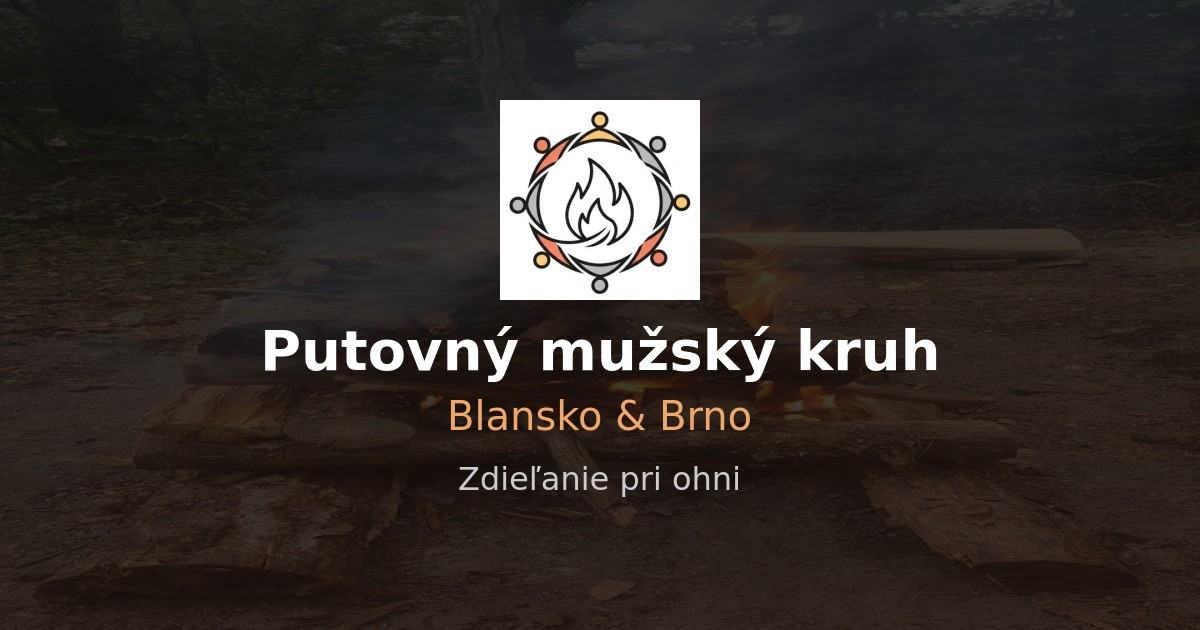
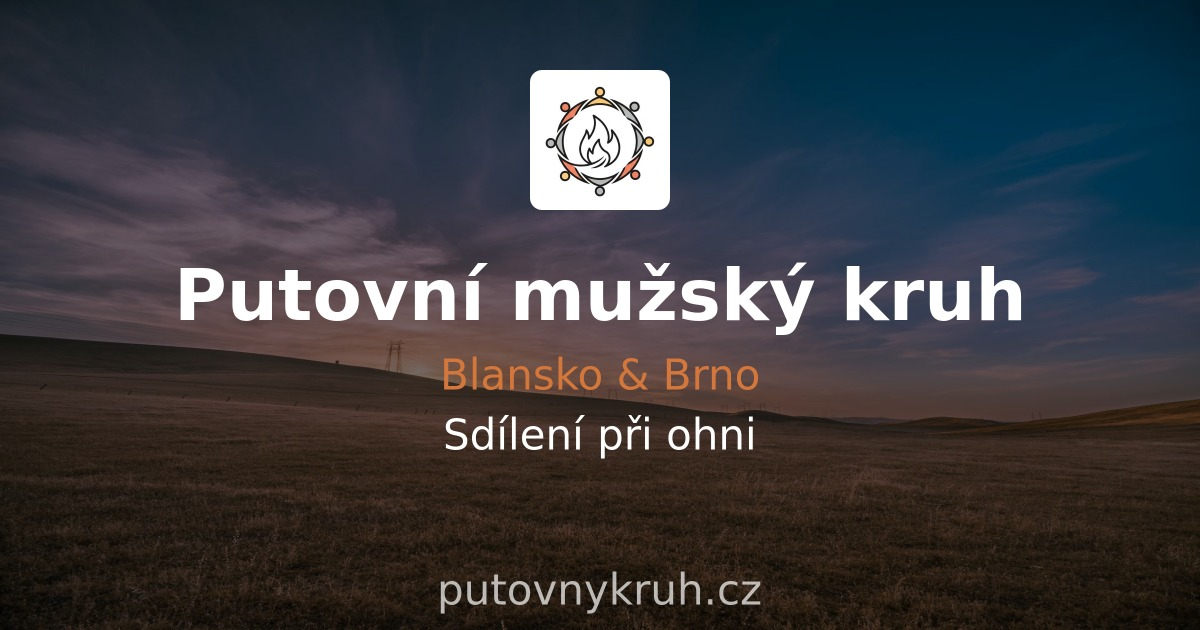
real jožo, real testimonials

diff --git a/scripts/generate-images.js b/scripts/generate-images.js
@@ -1,0 +1,221 @@
+/**
+ * Generate OG images and Google profile images using canvas
+ * Run: node scripts/generate-images.js
+ */
+import { createCanvas, loadImage, registerFont } from 'canvas';
+import fs from 'fs';
+import path from 'path';
+import { fileURLToPath } from 'url';
+
+const __dirname = path.dirname(fileURLToPath(import.meta.url));
+const publicDir = path.join(__dirname, '../public/images');
+
+// Ensure output directory exists
+if (!fs.existsSync(publicDir)) {
+  fs.mkdirSync(publicDir, { recursive: true });
+}
+
+// Colors from the website
+const COLORS = {
+  background: '#1a1612',
+  textPrimary: '#ffffff',
+  textAccent: '#d4773c',
+  darkOverlay: 'rgba(0, 0, 0, 0.55)'
+};
+
+/**
+ * Generate OG Image (1200x630)
+ */
+async function generateOGImage() {
+  const width = 1200;
+  const height = 630;
+  const canvas = createCanvas(width, height);
+  const ctx = canvas.getContext('2d');
+
+  // Background - load the campfire image or use gradient
+  try {
+    const bgImage = await loadImage(path.join(__dirname, '../src/assets/images/bg.jpg'));
+    ctx.drawImage(bgImage, 0, 0, width, height);
+  } catch (e) {
+    // Fallback to gradient if image not found
+    const gradient = ctx.createLinearGradient(0, 0, 0, height);
+    gradient.addColorStop(0, '#1a1612');
+    gradient.addColorStop(1, '#2d1f15');
+    ctx.fillStyle = gradient;
+    ctx.fillRect(0, 0, width, height);
+  }
+
+  // Dark overlay for text readability
+  ctx.fillStyle = COLORS.darkOverlay;
+  ctx.fillRect(0, 0, width, height);
+
+  // Load and draw logo in top center
+  try {
+    const logoImage = await loadImage(path.join(__dirname, '../src/assets/images/favicon-source.jpg'));
+    const logoSize = 120;
+    const logoX = (width - logoSize) / 2;
+    const logoY = 80;
+    
+    // White background for logo
+    ctx.fillStyle = '#ffffff';
+    ctx.beginPath();
+    ctx.roundRect(logoX - 10, logoY - 10, logoSize + 20, logoSize + 20, 12);
+    ctx.fill();
+    
+    // Draw logo
+    ctx.drawImage(logoImage, logoX, logoY, logoSize, logoSize);
+  } catch (e) {
+    console.log('Logo not found, using text only');
+  }
+
+  // Title - "Putovní mužský kruh"
+  ctx.fillStyle = COLORS.textPrimary;
+  ctx.textAlign = 'center';
+  ctx.textBaseline = 'middle';
+  
+  // Main title
+  ctx.font = 'bold 72px Montserrat, sans-serif';
+  ctx.fillText('Putovní mužský kruh', width / 2, height / 2 - 20);
+
+  // Location subtitle
+  ctx.fillStyle = COLORS.textAccent;
+  ctx.font = '500 42px Montserrat, sans-serif';
+  ctx.fillText('Blansko & Brno', width / 2, height / 2 + 60);
+
+  // Tagline
+  ctx.fillStyle = COLORS.textPrimary;
+  ctx.font = '300 28px Source Sans 3, sans-serif';
+  ctx.fillText('Sdílení při ohni', width / 2, height / 2 + 120);
+
+  // Bottom tagline
+  ctx.font = '300 20px Source Sans 3, sans-serif';
+  ctx.fillStyle = 'rgba(255, 255, 255, 0.7)';
+  ctx.fillText('putovnykruh.cz', width / 2, height - 40);
+
+  // Save OG image
+  const buffer = canvas.toBuffer('image/jpeg', { quality: 0.92 });
+  fs.writeFileSync(path.join(publicDir, 'og-image.jpg'), buffer);
+  console.log('✓ OG image generated: public/images/og-image.jpg');
+}
+
+/**
+ * Generate Google profile image (circular crop, 400x400)
+ */
+async function generateProfileImage(name, inputPath, outputName) {
+  const size = 400;
+  const canvas = createCanvas(size, size);
+  const ctx = canvas.getContext('2d');
+
+  // Create circular clipping path
+  ctx.beginPath();
+  ctx.arc(size / 2, size / 2, size / 2, 0, Math.PI * 2);
+  ctx.closePath();
+  ctx.clip();
+
+  // Load and draw profile image
+  try {
+    const profileImage = await loadImage(inputPath);
+    
+    // Calculate cover fit
+    const imgAspect = profileImage.width / profileImage.height;
+    const canvasAspect = size / size;
+    
+    let drawWidth, drawHeight, offsetX, offsetY;
+    
+    if (imgAspect > canvasAspect) {
+      drawHeight = size;
+      drawWidth = size * imgAspect;
+      offsetX = (size - drawWidth) / 2;
+      offsetY = 0;
+    } else {
+      drawWidth = size;
+      drawHeight = size / imgAspect;
+      offsetX = 0;
+      offsetY = (size - drawHeight) / 2;
+    }
+    
+    ctx.drawImage(profileImage, offsetX, offsetY, drawWidth, drawHeight);
+    
+    // Add subtle border
+    ctx.beginPath();
+    ctx.arc(size / 2, size / 2, size / 2 - 3, 0, Math.PI * 2);
+    ctx.lineWidth = 6;
+    ctx.strokeStyle = '#ffffff';
+    ctx.stroke();
+    
+    // Save profile image
+    const buffer = canvas.toBuffer('image/jpeg', { quality: 0.9 });
+    fs.writeFileSync(path.join(publicDir, outputName), buffer);
+    console.log(`✓ Profile image generated: public/images/${outputName}`);
+  } catch (e) {
+    console.error(`✗ Failed to generate profile for ${name}:`, e.message);
+  }
+}
+
+/**
+ * Generate Google+ style profile image with name overlay
+ */
+async function generateGoogleProfileWithInitials(name, outputName) {
+  const size = 400;
+  const canvas = createCanvas(size, size);
+  const ctx = canvas.getContext('2d');
+
+  // Create circular clipping path
+  ctx.beginPath();
+  ctx.arc(size / 2, size / 2, size / 2, 0, Math.PI * 2);
+  ctx.closePath();
+  ctx.clip();
+
+  // Background gradient - warm earthy tones matching the website
+  const gradient = ctx.createRadialGradient(size/2, size/2, 0, size/2, size/2, size);
+  gradient.addColorStop(0, '#4a3228');
+  gradient.addColorStop(1, '#2d1f15');
+  ctx.fillStyle = gradient;
+  ctx.fillRect(0, 0, size, size);
+
+  // Get initials (first letter of first name, first letter of last name)
+  const initials = name.split(' ').map(n => n[0]).join('').toUpperCase();
+
+  // Draw initials
+  ctx.fillStyle = '#ffffff';
+  ctx.textAlign = 'center';
+  ctx.textBaseline = 'middle';
+  ctx.font = 'bold 180px Montserrat, sans-serif';
+  ctx.fillText(initials, size / 2, size / 2);
+
+  // Add border
+  ctx.beginPath();
+  ctx.arc(size / 2, size / 2, size / 2 - 4, 0, Math.PI * 2);
+  ctx.lineWidth = 8;
+  ctx.strokeStyle = '#d4773c';
+  ctx.stroke();
+
+  // Save
+  const buffer = canvas.toBuffer('image/jpeg', { quality: 0.9 });
+  fs.writeFileSync(path.join(publicDir, outputName), buffer);
+  console.log(`✓ Google profile generated: public/images/${outputName}`);
+}
+
+// Main execution
+async function main() {
+  console.log('Generating images...\n');
+  
+  // Generate OG image
+  await generateOGImage();
+  
+  // Generate Google profile images for founders
+  await generateGoogleProfileWithInitials('Jožo', 'profile-jozo.jpg');
+  await generateGoogleProfileWithInitials('Martin', 'profile-martin.jpg');
+  
+  // Also try to generate from actual photos if available
+  try {
+    await generateProfileImage('Jožo', path.join(__dirname, '../src/assets/images/jozo.jpg'), 'profile-jozo-photo.jpg');
+    await generateProfileImage('Martin', path.join(__dirname, '../src/assets/images/martin.jpeg'), 'profile-martin-photo.jpg');
+  } catch (e) {
+    console.log('Note: Profile photos not available, using initials instead');
+  }
+  
+  console.log('\n✓ All images generated successfully!');
+}
+
+main().catch(console.error);

diff --git a/GOOGLE_BUSINESS_SETUP.md b/GOOGLE_BUSINESS_SETUP.md
@@ -6,6 +6,9 @@ Google Business Profile (formerly Google My Business) will help your men's circl
 - "mužský kruh Blansko"
 - "stretnutia mužov Brno"
 - "mužská podpora Blanensko"
+- "mužský kruh Blansko"
+- "setkání mužů Brno"
+- "mužská podpora Blanenska"
 
 ### Step-by-Step Setup
 
@@ -58,7 +61,7 @@ Putovný mužský kruh Blansko
 
 **Description (750 characters max):**
 ```
-Putovný mužský kruh je bezpečný priestor pre mužov z Blanska, Brna a okolia. Pravidelné stretnutia pri ohni zamerané na autentické zdieľanie, načúvanie a osobný rast. Vytvárame podporné prostredie, kde muži môžu hovoriť pravdu bez súdenia, zdieľať svoje výzvy a rásť spolu ako bratstvo. Stretávame sa vonku v prírode na Blanensku, vždy pri ohni. Žiadne poplatky - platí sa mužským slovom a integritou. Pre mužov, ktorí hľadajú viac než povrchné debaty.
+Putovný mužský kruh je bezpečný prostor pro muže z Blanska, Brna a okolí. Pravidelná setkání u ohně zaměřená na autentické sdílení, naslouchání a osobní růst. Vytváříme podpůrné prostředí, kde muži mohou mluvit pravdu bez odsuzování, sdílet své výzvy a růst spolu jako bratrstvo. Setkáváme se venku v přírodě na Blanensku, vždy u ohně. Žádné poplatky - platí se mužským slovem a integritou. Pro muže, kteří hledají více než povrchní debaty.
 ```
 
 **Phone Number:**
@@ -140,50 +143,50 @@ Google Business Posts appear in search results and keep your profile active.
 
 **Event Post (for each circle):**
 ```
-📅 Najbližší Putovný kruh
-18. marec 2026 o 17:30
-Miesto: [bude upresnené]
+📅 Nejbližší Putovný kruh
+18. březen 2026 v 17:30
+Místo: [bude upřesněno]
 
-Bezpečný priestor pre mužov na zdieľanie pri ohni.
-Prihlás sa: https://putovnykruh.cz/#prihlaska
+Bezpečný prostor pro muže ke sdílení u ohně.
+Přihlásit se: https://putovnykruh.cz/#prihlaska
 
-#MužskýKruhBlansko #Blanenského
+#MužskýKruhBlansko #Blanenska
 ```
 
 **Update Post (testimonials):**
 ```
-💬 "Dlho som hľadal priestor, kde môžem byť sám sebou..."
+💬 "Dlouho jsem hledal prostor, kde mohu být sám sebou..."
 - Martin, 38, Blansko
 
-Príď na naše stretnutie a zažij autentické mužské bratstvo.
+Přijď na naše setkání a zažij autentické mužské bratrství.
 ```
 
 **Offer Post (emphasize free):**
 ```
-🔥 Všetko zadarmo. Žiadne skryté poplatky.
-Platí sa len mužským slovom a integritou.
+🔥 Všechno zdarma. Žádné skryté poplatky.
+Platí se jen mužským slovem a integritou.
 
-Prihlásiť sa môžeš tu: https://putovnykruh.cz
+Přihlásit se můžeš zde: https://putovnykruh.cz
 ```
 
 #### 9. Q&A Section
 
 Pre-emptively add common questions:
 
-**Q: Je to naozaj zadarmo?**
-A: Áno, účasť je úplne zadarmo. Neplatíme peniazmi, platíme integritou a mužským slovom.
+**Q: Je to opravdu zdarma?**
+A: Ano, účast je zcela zdarma. Neplatíme penězi, platíme integritou a mužským slovem.
 
-**Q: Musím niečo priniesť?**
-A: Nie, stačí prísť. Prinášaš len seba a ochotu byť úprimný.
+**Q: Musím něco přinést?**
+A: Ne, stačí přijít. Přinášíš jen sebe a ochotu být upřímný.
 
-**Q: Kde sa stretávame?**
-A: Stretávame sa vonku v prírode na Blanensku, vždy pri ohni. Konkrétne miesto je upresnené pri každom stretnutí.
+**Q: Kde se setkáváme?**
+A: Setkáváme se venku v přírodě na Blanensku, vždy u ohně. Konkrétní místo je upřesněno před každým setkáním.
 
-**Q: Môžem prísť aj z Brna?**
-A: Určite! Mnohí účastníci prichádzajú z Brna a okolia.
+**Q: Můžu přijít i z Brna?**
+A: Určitě! Mnoho účastníků přijíždí z Brna a okolí.
 
-**Q: Je to len pre mužov?**
-A: Áno, kruh je určený výhradne pre mužov.
+**Q: Je to jen pro muže?**
+A: Ano, kruh je určen výhradně pro muže.
 
 #### 10. Reviews Management
 
